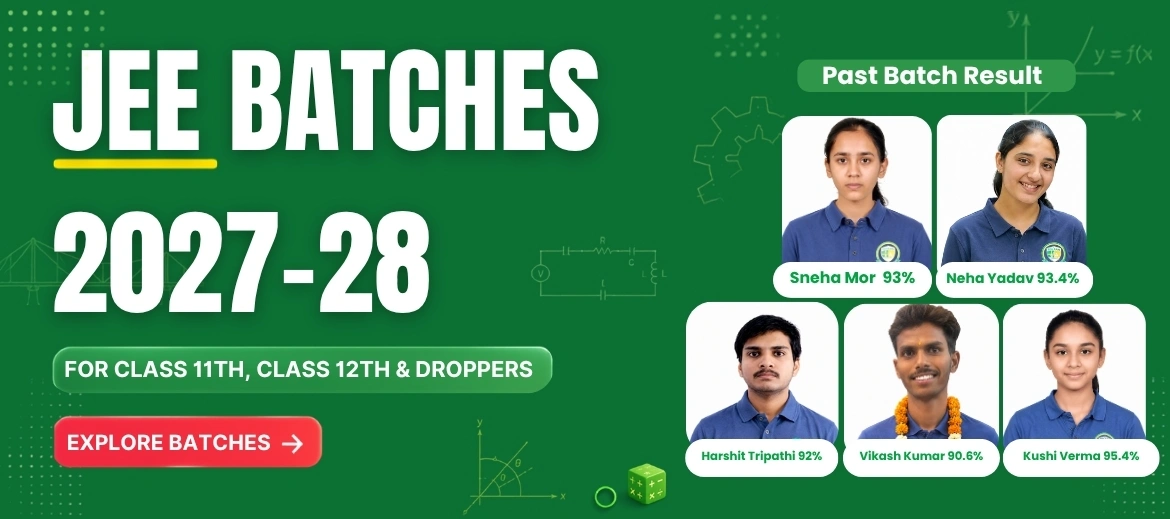
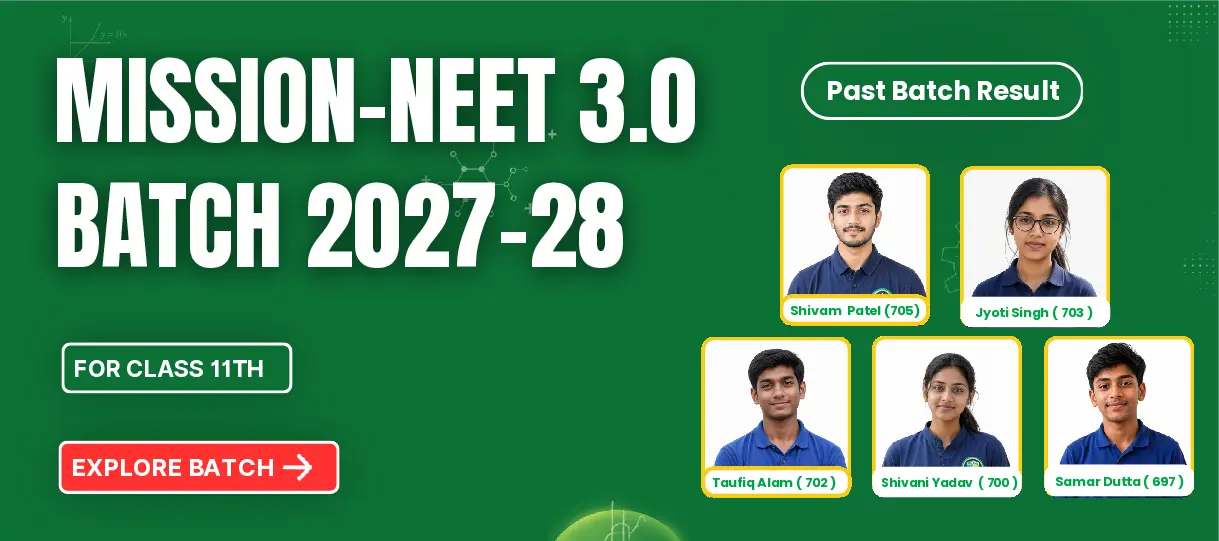
Update site

diff --git a/src/components/banner.js b/src/components/banner.js
@@ -68,30 +68,40 @@ export function renderBanner() {
         </div>
       </div>
 
-      <!-- ─── MOBILE HERO BANNER (4 Slides) ─── -->
+      <!-- ─── MOBILE HERO BANNER (6 Slides) ─── -->
       <div class="er-banner-mobile">
         <section id="er-hero-banner-mobile" style="position:relative; width:100%; overflow:hidden; background:#0e3a24;">
 
           <div id="er-slider-track-mobile" style="display:flex; transition:transform 0.7s cubic-bezier(0.4,0,0.2,1); will-change:transform;">
 
-            <!-- SLIDE 1 — JEE BATCHES -->
-            <a href="/courses/iit-jee" aria-label="JEE Batches" class="er-slide-mobile er-slide-aspect-mobile" style="position:relative; flex-shrink:0; width:100%; display:block; text-decoration:none;">
-              <img src="/images/mobile%20banner%20images/1.webp" alt="JEE Batches" fetchpriority="high" loading="eager" width="1170" height="519" style="width:100%; height:100%; object-fit:cover; display:block;" />
+            <!-- SLIDE 1 — JEE MANTRA 3.0 BATCH (CLASS 11TH) -->
+            <a href="/courses/iit-jee" aria-label="JEE Mantra 3.0 Batch 2027-28 for Class 11th" class="er-slide-mobile er-slide-aspect-mobile" style="position:relative; flex-shrink:0; width:100%; display:block; text-decoration:none;">
+              <img src="/images/mobile%20banner%20images/1.webp?v=2" alt="JEE Mantra 3.0 Batch 2027-28 for Class 11th" fetchpriority="high" loading="eager" width="1219" height="541" style="width:100%; height:100%; object-fit:cover; display:block;" />
             </a>
 
-            <!-- SLIDE 2 — NEET BATCHES -->
-            <a href="/courses/neet" aria-label="NEET Batches" class="er-slide-mobile er-slide-aspect-mobile" style="position:relative; flex-shrink:0; width:100%; display:block; text-decoration:none;">
-              <img src="/images/mobile%20banner%20images/2.jpeg" alt="NEET Batches" loading="lazy" width="1170" height="519" style="width:100%; height:100%; object-fit:cover; display:block;" />
+            <!-- SLIDE 2 — MISSION-NEET 3.0 BATCH (CLASS 11TH) -->
+            <a href="/courses/neet" aria-label="Mission-NEET 3.0 Batch 2027-28 for Class 11th" class="er-slide-mobile er-slide-aspect-mobile" style="position:relative; flex-shrink:0; width:100%; display:block; text-decoration:none;">
+              <img src="/images/mobile%20banner%20images/2.webp?v=2" alt="Mission-NEET 3.0 Batch 2027-28 for Class 11th" loading="lazy" width="1219" height="541" style="width:100%; height:100%; object-fit:cover; display:block;" />
             </a>
 
-            <!-- SLIDE 3 — FOUNDATION COURSES -->
-            <a href="/courses/foundation" aria-label="Foundation Courses" class="er-slide-mobile er-slide-aspect-mobile" style="position:relative; flex-shrink:0; width:100%; display:block; text-decoration:none;">
-              <img src="/images/mobile%20banner%20images/3.jpg" alt="Foundation Courses" loading="lazy" width="1170" height="519" style="width:100%; height:100%; object-fit:cover; display:block;" />
+            <!-- SLIDE 3 — NEET WHITE COAT BATCH (CLASS 12TH) -->
+            <a href="/courses/neet" aria-label="NEET White Coat Batch 2026-27 for Class 12th" class="er-slide-mobile er-slide-aspect-mobile" style="position:relative; flex-shrink:0; width:100%; display:block; text-decoration:none;">
+              <img src="/images/mobile%20banner%20images/3.webp?v=2" alt="NEET White Coat Batch 2026-27 for Class 12th" loading="lazy" width="1219" height="541" style="width:100%; height:100%; object-fit:cover; display:block;" />
             </a>
 
-            <!-- SLIDE 4 — LEARN FROM ANYWHERE (APP DOWNLOAD) -->
+            <!-- SLIDE 4 — JEE TARGET BATCH (CLASS 12TH) -->
+            <a href="/courses/iit-jee" aria-label="JEE Target Batch 2026-27 for Class 12th" class="er-slide-mobile er-slide-aspect-mobile" style="position:relative; flex-shrink:0; width:100%; display:block; text-decoration:none;">
+              <img src="/images/mobile%20banner%20images/4.webp?v=2" alt="JEE Target Batch 2026-27 for Class 12th" loading="lazy" width="1219" height="541" style="width:100%; height:100%; object-fit:cover; display:block;" />
+            </a>
+
+            <!-- SLIDE 5 — FOUNDATION COURSES (CLASS 8TH - 10TH) -->
+            <a href="/courses/foundation" aria-label="Foundation Courses for Class 8th - 10th" class="er-slide-mobile er-slide-aspect-mobile" style="position:relative; flex-shrink:0; width:100%; display:block; text-decoration:none;">
+              <img src="/images/mobile%20banner%20images/5.webp?v=2" alt="Foundation Courses for Class 8th - 10th" loading="lazy" width="1219" height="541" style="width:100%; height:100%; object-fit:cover; display:block;" />
+            </a>
+
+            <!-- SLIDE 6 — LEARN FROM ANYWHERE (APP DOWNLOAD) -->
             <a href="#er-app-download" aria-label="Download EduRain App" class="er-slide-mobile er-slide-aspect-mobile" style="position:relative; flex-shrink:0; width:100%; display:block; text-decoration:none;">
-              <img src="/images/mobile%20banner%20images/4.webp" alt="Learn from Anywhere - EduRain App" loading="lazy" width="1219" height="541" style="width:100%; height:100%; object-fit:cover; display:block;" />
+              <img src="/images/mobile%20banner%20images/6.webp?v=2" alt="Learn from Anywhere - EduRain App" loading="lazy" width="1219" height="541" style="width:100%; height:100%; object-fit:cover; display:block;" />
             </a>
 
           </div>
@@ -112,12 +122,14 @@ export function renderBanner() {
 
         </section>
 
-        <!-- Dot pagination (Mobile - 4 dots) -->
+        <!-- Dot pagination (Mobile - 6 dots) -->
         <div id="er-dots-mobile" class="er-banner-dots">
           <button class="er-dot er-dot-active" data-index="0" aria-label="Slide 1"></button>
           <button class="er-dot" data-index="1" aria-label="Slide 2"></button>
           <button class="er-dot" data-index="2" aria-label="Slide 3"></button>
           <button class="er-dot" data-index="3" aria-label="Slide 4"></button>
+          <button class="er-dot" data-index="4" aria-label="Slide 5"></button>
+          <button class="er-dot" data-index="5" aria-label="Slide 6"></button>
         </div>
       </div>
 

diff --git a/index.html b/index.html
@@ -42,7 +42,7 @@
   
   <!-- Preload LCP Hero Banner Images -->
   <link rel="preload" as="image" href="/images/logo.webp" fetchpriority="high">
-  <link rel="preload" as="image" href="/images/mobile%20banner%20images/1.webp" media="(max-width: 640px)" fetchpriority="high">
+  <link rel="preload" as="image" href="/images/mobile%20banner%20images/1.webp?v=2" media="(max-width: 640px)" fetchpriority="high">
   <link rel="preload" as="image" href="/images/web%20banner/1.webp?v=2" media="(min-width: 641px)" fetchpriority="high">
 
   <!-- JSON-LD Schema Markup -->
